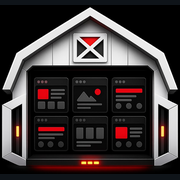
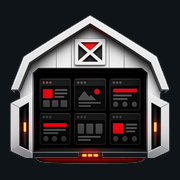
rebrand

diff --git a/frontend/lib/i18n/messages/ru.ts b/frontend/lib/i18n/messages/ru.ts
@@ -45,7 +45,7 @@ export const ru: Messages = {
     langRu: "Русский",
     fleetServers: "Серверы",
     fleetEvents: "События",
-    fleetSettings: "Настройки флота",
+    fleetSettings: "Настройки фермы",
     fleetThisServer: "Этот сервер",
     fleetContextAll: "Все серверы",
     fleetContextLocal: "Этот сервер · MASTER",
@@ -610,11 +610,11 @@ export const ru: Messages = {
     createdPassword: "Сгенерированный пароль",
   },
   fleet: {
-    title: "Флот",
+    title: "Ферма",
     subtitle: "Мониторинг всех серверов Амбар и агентов из одной панели.",
-    settingsLink: "Настройки флота",
+    settingsLink: "Настройки фермы",
     addServer: "Добавить сервер",
-    loadFailed: "Не удалось загрузить данные флота",
+    loadFailed: "Не удалось загрузить данные фермы",
     empty: "Нет серверов по этому фильтру.",
     summaryServers: "Серверов online",
     summaryServersHint: "{warning} warning · {offline} offline",
@@ -696,7 +696,7 @@ export const ru: Messages = {
       "Установка полной панели на VPS по SSH (root + пароль) и автоматическое сопряжение с Master.",
     kindPairExisting: "Подключить существующий Амбар",
     kindPairExistingHint:
-      "На удалённом VPS панель уже установлена. Нужен код сопряжения из её настроек Fleet.",
+      "На удалённом VPS панель уже установлена. Нужен код сопряжения из её настроек фермы.",
     kindAgent: "Агент мониторинга",
     kindAgentHint: "Лёгкий агент на VPS без панели Амбар.",
     sshFormHint: "Как при установке из консоли: SSH-доступ и публичный URL будущей панели.",
@@ -739,7 +739,7 @@ export const ru: Messages = {
     nodeNotFound: "Сервер не найден",
     nodeDeleteFailed: "Не удалось удалить сервер",
     removeServer: "Удалить сервер",
-    removeServerConfirm: "Удалить «{name}» из флота?",
+    removeServerConfirm: "Удалить «{name}» из фермы?",
     nodeInfo: "Информация о сервере",
     nodeUid: "Node UID",
     hostname: "Hostname",
@@ -760,7 +760,7 @@ export const ru: Messages = {
     mount: "Mount",
     device: "Устройство",
     used: "Занято",
-    eventsTitle: "События флота",
+    eventsTitle: "События фермы",
     eventsSubtitle: "Недавние инциденты и алерты по всем серверам.",
     eventsLoadFailed: "Не удалось загрузить события",
     eventsEmpty: "Событий пока нет.",
@@ -769,7 +769,7 @@ export const ru: Messages = {
     eventTitle: "Заголовок",
     eventNode: "Node",
     eventType: "Тип",
-    settingsTitle: "Настройки флота",
+    settingsTitle: "Настройки фермы",
     settingsSubtitle: "Режим master, публичный URL и сопряжение узлов.",
     settingsSaved: "Настройки сохранены",
     settingsSaveFailed: "Не удалось сохранить настройки",
@@ -779,7 +779,7 @@ export const ru: Messages = {
       master: "Master",
       managed_node: "Managed node",
     },
-    enableMasterTitle: "Включить fleet master",
+    enableMasterTitle: "Включить master mode",
     enableMasterHint:
       "Превратить эту панель в master для мониторинга нескольких серверов и агентов.",
     enableMaster: "Включить master mode",
@@ -808,7 +808,7 @@ export const ru: Messages = {
     nodeDisplayName: "Отображаемое имя",
     masterUrl: "URL master",
     disconnectMaster: "Отключиться от master",
-    disconnectMasterConfirm: "Отключить этот узел от fleet master?",
+    disconnectMasterConfirm: "Отключить этот узел от master?",
     masterDisconnected: "Отключено от master",
     masterDisconnectFailed: "Не удалось отключиться от master",
     pairingCodeTitle: "Код сопряжения",

diff --git a/frontend/lib/i18n/messages/en.ts b/frontend/lib/i18n/messages/en.ts
@@ -43,7 +43,7 @@ export const en = {
     langRu: "Русский",
     fleetServers: "Servers",
     fleetEvents: "Events",
-    fleetSettings: "Fleet settings",
+    fleetSettings: "Farm settings",
     fleetThisServer: "This server",
     fleetContextAll: "All servers",
     fleetContextLocal: "This server · MASTER",
@@ -609,11 +609,11 @@ export const en = {
     createdPassword: "Generated password",
   },
   fleet: {
-    title: "Fleet",
+    title: "Farm",
     subtitle: "Monitor all Barn servers and agents from one place.",
-    settingsLink: "Fleet settings",
+    settingsLink: "Farm settings",
     addServer: "Add server",
-    loadFailed: "Failed to load fleet data",
+    loadFailed: "Failed to load farm data",
     empty: "No servers match this filter.",
     summaryServers: "Servers online",
     summaryServersHint: "{warning} warning · {offline} offline",
@@ -695,7 +695,7 @@ export const en = {
       "Install the full panel on a VPS via SSH (root + password), then pair it to this Master.",
     kindPairExisting: "Connect existing Barn",
     kindPairExistingHint:
-      "The remote panel already runs Barn. Use a pairing code from its Fleet settings.",
+      "The remote panel already runs Barn. Use a pairing code from its Farm settings.",
     kindAgent: "Monitoring agent",
     kindAgentHint: "Install the lightweight agent on a VPS without a Barn panel.",
     sshFormHint: "Same idea as console install: SSH access plus the public URL of the future panel.",
@@ -737,7 +737,7 @@ export const en = {
     nodeNotFound: "Server not found",
     nodeDeleteFailed: "Failed to remove server",
     removeServer: "Remove server",
-    removeServerConfirm: "Remove «{name}» from the fleet?",
+    removeServerConfirm: "Remove «{name}» from the farm?",
     nodeInfo: "Server info",
     nodeUid: "Node UID",
     hostname: "Hostname",
@@ -758,8 +758,8 @@ export const en = {
     mount: "Mount",
     device: "Device",
     used: "Used",
-    eventsTitle: "Fleet events",
-    eventsSubtitle: "Recent incidents and alerts across the fleet.",
+    eventsTitle: "Farm events",
+    eventsSubtitle: "Recent incidents and alerts across the farm.",
     eventsLoadFailed: "Failed to load events",
     eventsEmpty: "No events yet.",
     eventTime: "Time",
@@ -767,7 +767,7 @@ export const en = {
     eventTitle: "Title",
     eventNode: "Node",
     eventType: "Type",
-    settingsTitle: "Fleet settings",
+    settingsTitle: "Farm settings",
     settingsSubtitle: "Configure master mode, public URL, and node pairing.",
     settingsSaved: "Settings saved",
     settingsSaveFailed: "Failed to save settings",
@@ -777,9 +777,9 @@ export const en = {
       master: "Master",
       managed_node: "Managed node",
     },
-    enableMasterTitle: "Enable fleet master",
+    enableMasterTitle: "Enable master mode",
     enableMasterHint:
-      "Turn this panel into a fleet master to monitor multiple servers and agents.",
+      "Turn this panel into a master to monitor multiple servers and agents.",
     enableMaster: "Enable master mode",
     joinAsSlaveTitle: "Join as slave (managed node)",
     joinAsSlaveHint:
@@ -806,7 +806,7 @@ export const en = {
     nodeDisplayName: "Display name",
     masterUrl: "Master URL",
     disconnectMaster: "Disconnect from master",
-    disconnectMasterConfirm: "Disconnect this node from the fleet master?",
+    disconnectMasterConfirm: "Disconnect this node from the master?",
     masterDisconnected: "Disconnected from master",
     masterDisconnectFailed: "Failed to disconnect from master",
     pairingCodeTitle: "Pairing code",

diff --git a/frontend/components/BrandLogo.tsx b/frontend/components/BrandLogo.tsx
@@ -1,4 +1,3 @@
-import Image from "next/image";
 import { AppVersion } from "@/components/AppVersion";
 import { ServerIPBadge } from "@/components/ServerIPBadge";
 
@@ -9,6 +8,7 @@ type Props = {
   size?: "nav" | "auth";
 };
 
+/** Plain <img> — preserves PNG alpha; avoids Next Image optimizer cache of old assets. */
 export function BrandLogo({
   showVersion = false,
   showServerIP = false,
@@ -20,31 +20,34 @@ export function BrandLogo({
     <span className={`brand-logo brand-logo-${size}`}>
       {isNav ? (
         <>
-          <Image
+          {/* eslint-disable-next-line @next/next/no-img-element */}
+          <img
             src="/logo-small.png"
             alt="Barn"
-            width={1024}
-            height={682}
-            priority
+            width={512}
+            height={512}
             className="brand-logo-img brand-logo-small"
+            decoding="async"
           />
-          <Image
+          {/* eslint-disable-next-line @next/next/no-img-element */}
+          <img
             src="/logo-full.png"
             alt="Barn"
-            width={1024}
-            height={682}
-            priority
+            width={512}
+            height={512}
             className="brand-logo-img brand-logo-full"
+            decoding="async"
           />
         </>
       ) : (
-        <Image
+        // eslint-disable-next-line @next/next/no-img-element
+        <img
           src="/logo-full.png"
           alt="Barn"
-          width={1024}
-          height={682}
-          priority
+          width={512}
+          height={512}
           className="brand-logo-img brand-logo-full"
+          decoding="async"
         />
       )}
       {showVersion && <AppVersion />}

diff --git a/frontend/app/globals.css b/frontend/app/globals.css
@@ -819,7 +819,8 @@ h3 {
 .brand-logo {
   display: inline-flex;
   align-items: center;
-  gap: 0.5rem;
+  gap: 0.55rem;
+  min-width: 0;
 }
 
 .brand-logo-small,
@@ -829,21 +830,27 @@ h3 {
   object-fit: contain;
 }
 
+/* Square barn mark — both breakpoints use the same asset sizing */
 .brand-logo-img.brand-logo-small {
   display: none;
-  height: 36px;
-  max-width: 52px;
+  height: 40px;
+  width: 40px;
+  max-width: none;
+  background: transparent;
 }
 
 .brand-logo-img.brand-logo-full {
   display: block;
   height: 44px;
-  max-width: min(260px, 50vw);
+  width: 44px;
+  max-width: none;
+  background: transparent;
 }
 
 .brand-logo-auth .brand-logo-img.brand-logo-full {
-  height: 56px;
-  max-width: min(320px, 85vw);
+  height: 88px;
+  width: 88px;
+  max-width: none;
 }
 
 .auth-brand {
@@ -1594,8 +1601,9 @@ h3 {
 
   .brand-logo-img.brand-logo-small {
     display: block;
-    height: 48px;
-    max-width: 72px;
+    height: 40px;
+    width: 40px;
+    max-width: none;
   }
 
   .brand-logo-img.brand-logo-full {
@@ -1603,7 +1611,8 @@ h3 {
   }
 
   .brand-logo-auth .brand-logo-img.brand-logo-full {
-    height: 64px;
+    height: 96px;
+    width: 96px;
   }
 
   .brand-logo .app-version,
